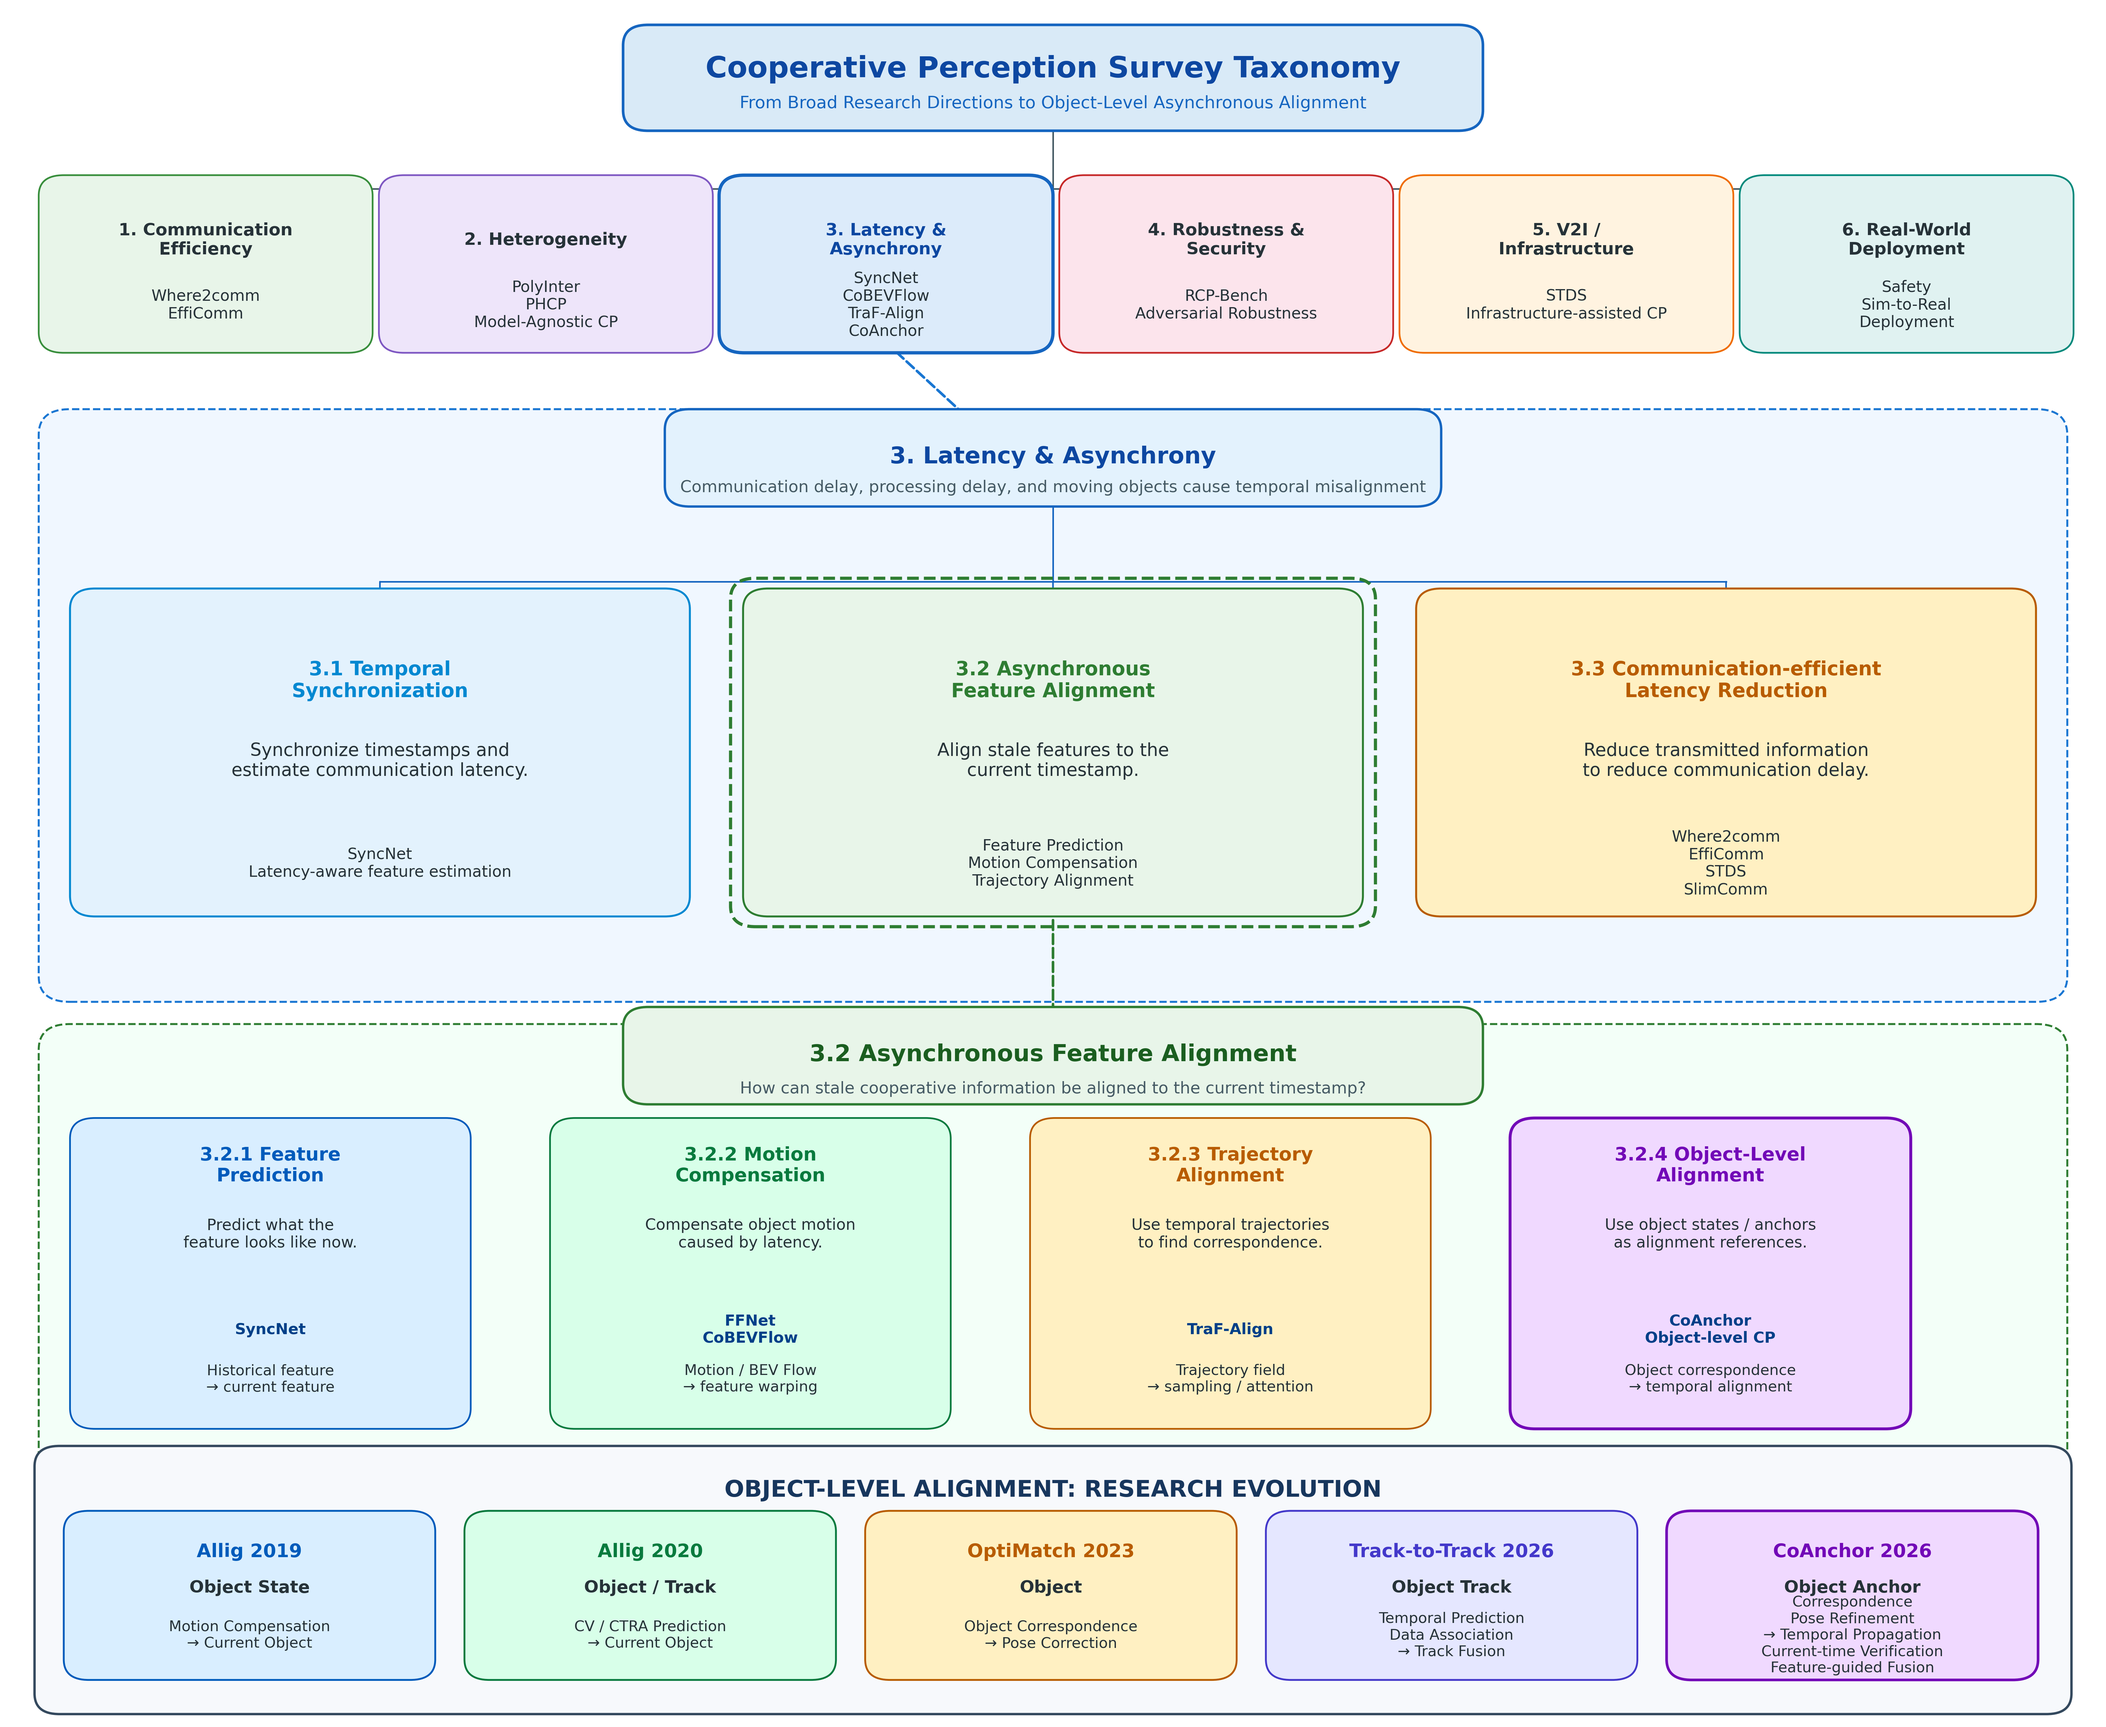
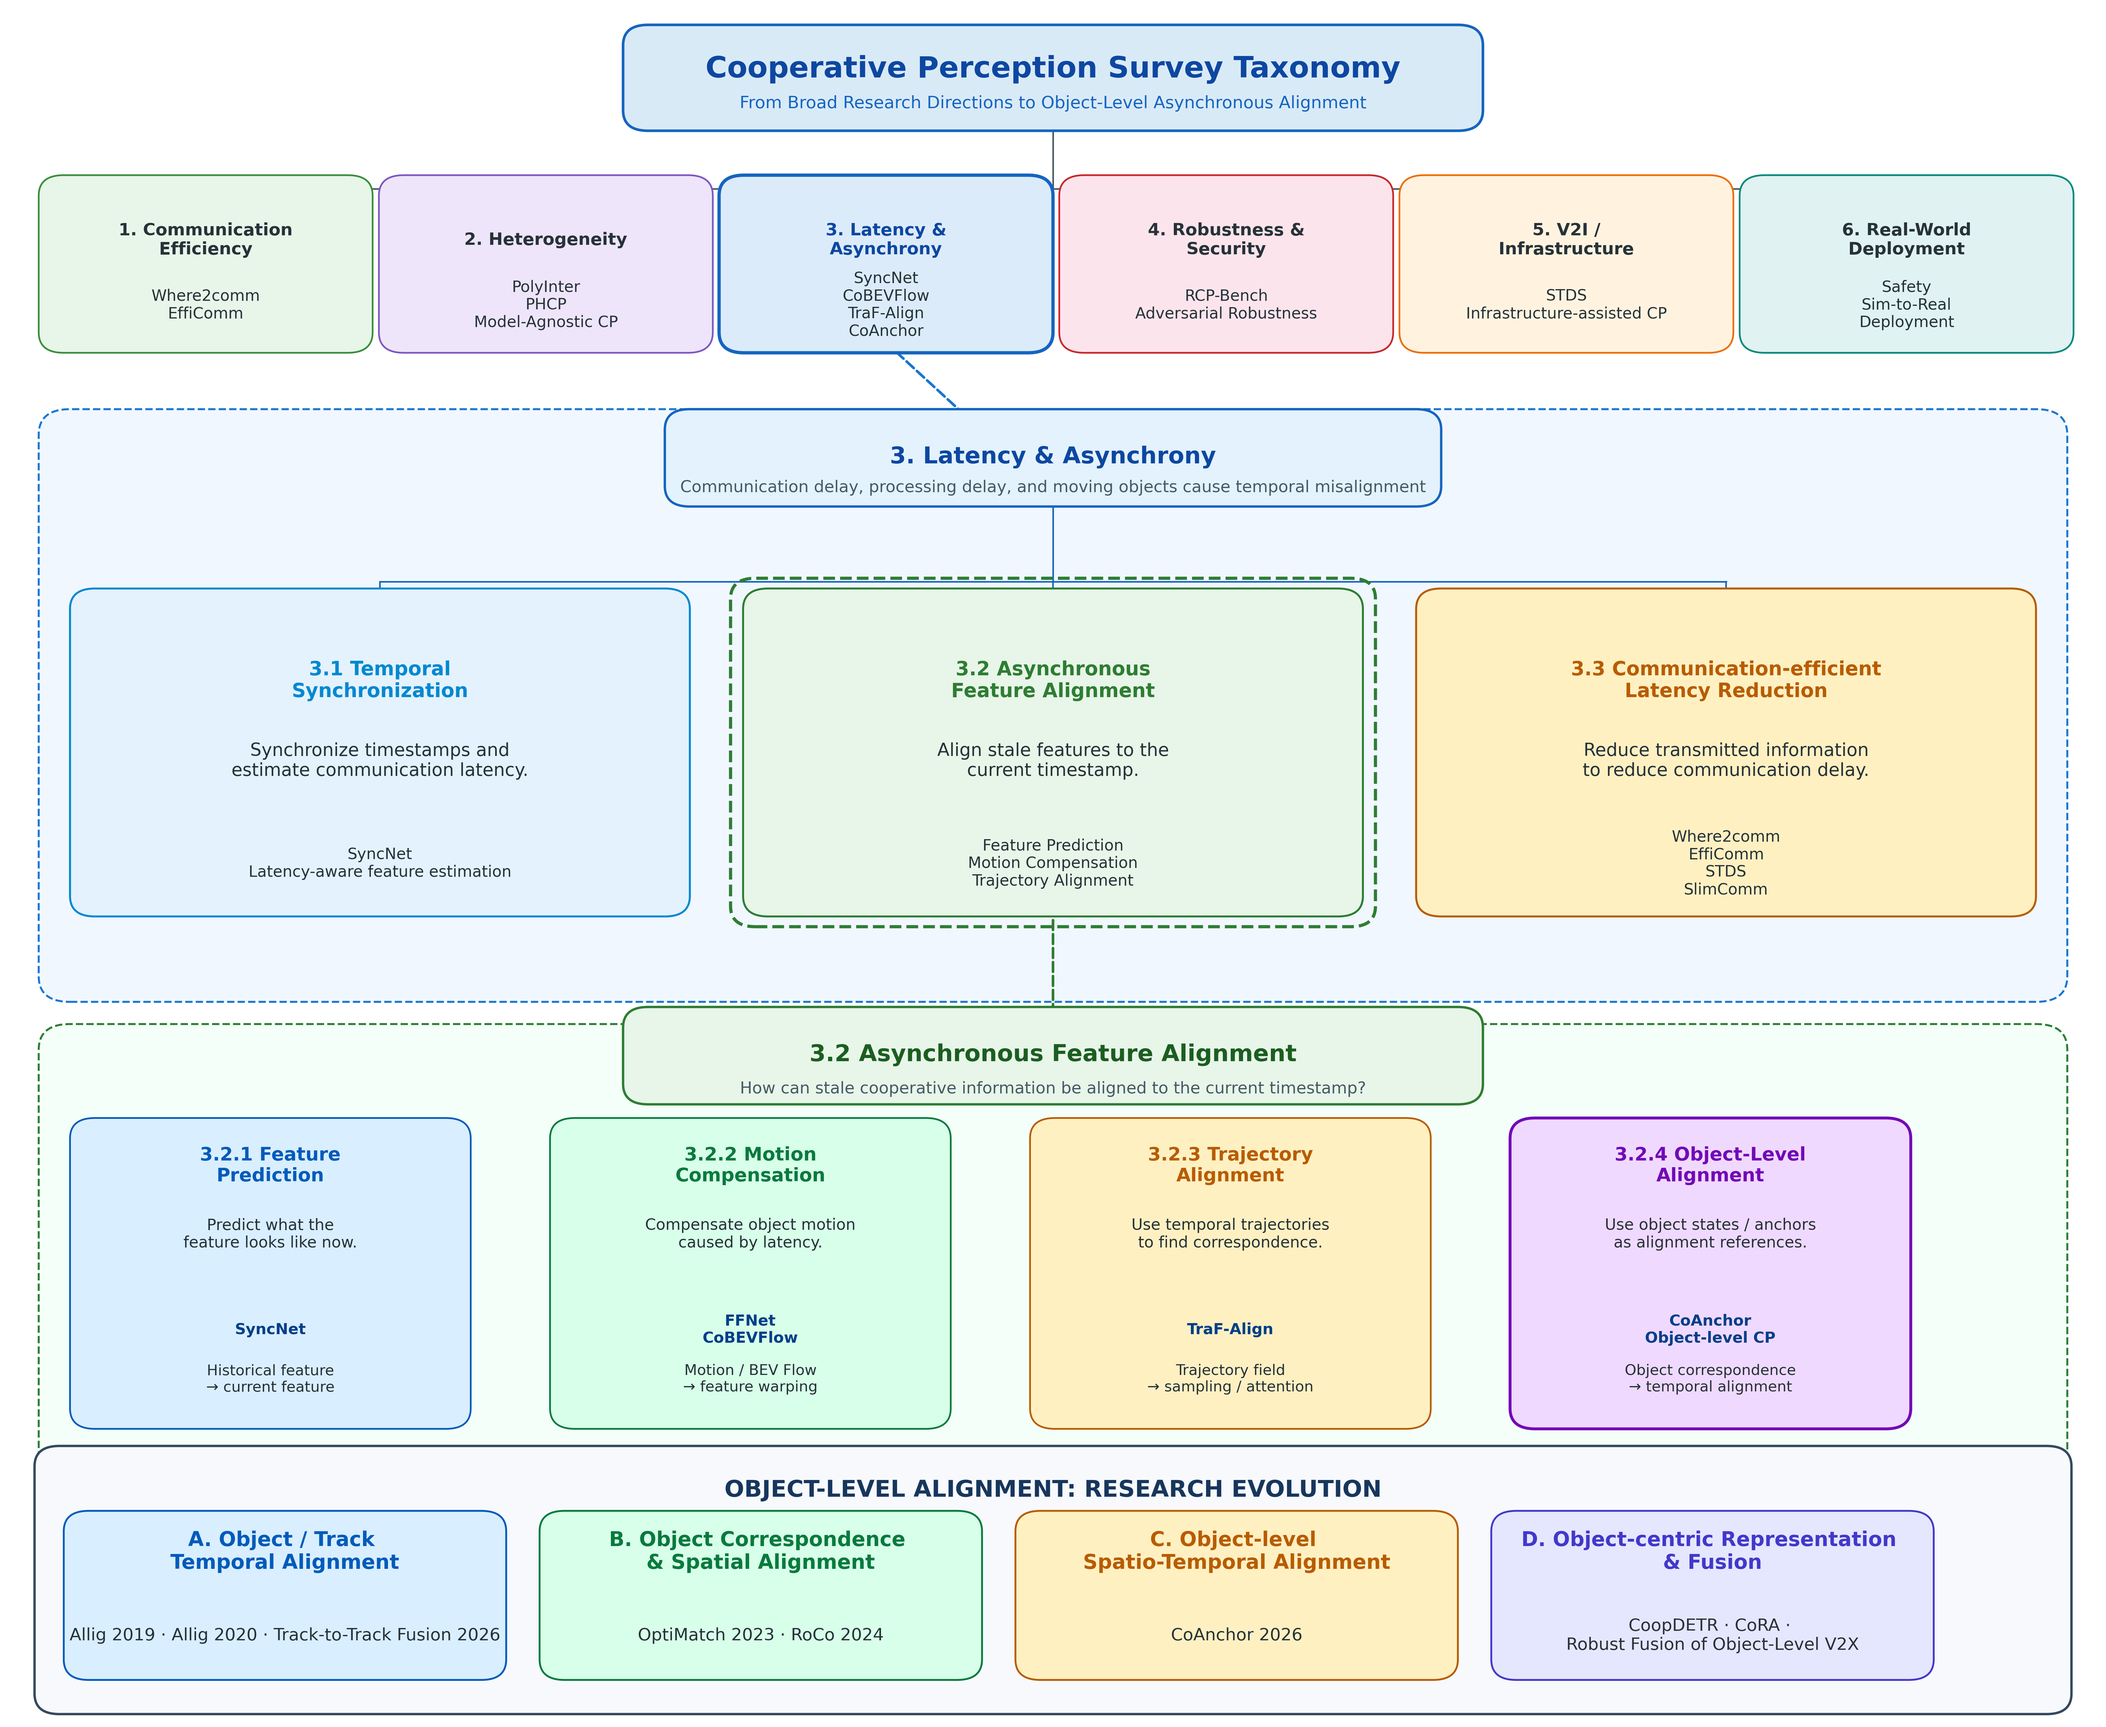
modify plt

Changed region(s): [[0.0937, 0.8718, 0.9682, 0.9963]]

diff --git a/draw.py b/draw.py
@@ -595,20 +595,47 @@ text(0.50, 0.133, "OBJECT-LEVEL ALIGNMENT: RESEARCH EVOLUTION", fontsize=15,
      weight="bold", color="#17365D")
 
 stages = [
-    {"head":"Allig 2019", "unit":"Object State", "method":"Motion Compensation", "out":"Current Object", "fc":"#D9EEFF", "ec":"#005BBB"},
-    {"head":"Allig 2020", "unit":"Object / Track", "method":"CV / CTRA Prediction", "out":"Current Object", "fc":"#D8FFE9", "ec":"#087A3E"},
-    {"head":"OptiMatch 2023", "unit":"Object", "method":"Object Correspondence", "out":"Pose Correction", "fc":"#FFF0C2", "ec":"#B85C00"},
-    {"head":"Track-to-Track 2026", "unit":"Object Track", "method":"Temporal Prediction\nData Association", "out":"Track Fusion", "fc":"#E5E7FF", "ec":"#4338CA"},
-    {"head":"CoAnchor 2026", "unit":"Object Anchor", "method":"Correspondence\nPose Refinement", "out":"Temporal Propagation\nCurrent-time Verification\nFeature-guided Fusion", "fc":"#F0D9FF", "ec":"#7209B7"},
+    {"head":"A. Object / Track \nTemporal Alignment", 
+    #"unit":"Object State", 
+    "method":"Allig 2019 · Allig 2020 · Track-to-Track Fusion 2026", 
+    #"out":"Current Object", 
+    "fc":"#D9EEFF", "ec":"#005BBB"
+    },
+    {"head":"B. Object Correspondence \n& Spatial Alignment", 
+    #"unit":"Object / Track", 
+    "method":"OptiMatch 2023 · RoCo 2024", 
+    #"out":"Current Object", 
+    "fc":"#D8FFE9", "ec":"#087A3E"
+    },
+    {"head":"C. Object-level \nSpatio-Temporal Alignment", 
+     #"unit":"Object", 
+     "method":"CoAnchor 2026", 
+     #"out":"Pose Correction", 
+     "fc":"#FFF0C2", "ec":"#B85C00"
+    },
+    {"head":"D. Object-centric Representation \n& Fusion", 
+     #"unit":"Object Track", 
+     "method":"CoopDETR · CoRA · \nRobust Fusion of Object-Level V2X", 
+     #"out":"Track Fusion", 
+     "fc":"#E5E7FF", "ec":"#4338CA"
+    },
+    #{"head":"CoAnchor 2026", 
+     #"unit":"Object Anchor", 
+    # "method":"Correspondence\nPose Refinement", 
+     #"out":"Temporal Propagation\nCurrent-time Verification\nFeature-guided Fusion", 
+    # "fc":"#F0D9FF", "ec":"#7209B7"
+    #},
 ]
-xs = [0.032, 0.224, 0.416, 0.608, 0.800]
-w = 0.166
+#xs = [0.032, 0.224, 0.416, 0.608, 0.800]
+xs = [0.032, 0.260, 0.488, 0.716]
+w = 0.20
 for i, st in enumerate(stages):
     x = xs[i]
     rounded_box(x, 0.028, w, 0.087, facecolor=st["fc"], edgecolor=st["ec"], linewidth=2.0 if i == 4 else 1.4)
-    text(x+w/2, 0.097, st["head"], fontsize=12.0, weight="bold", color=st["ec"])
-    text(x+w/2, 0.076, st["unit"], fontsize=11.0, weight="bold", color="#263238")
-    text(x+w/2, 0.048, st["method"] + "\n→ " + st["out"], fontsize=9.5, color="#263238")
+    text(x+w/2, 0.097, st["head"], fontsize=13.0, weight="bold", color=st["ec"])
+    #text(x+w/2, 0.076, st["unit"], fontsize=11.0, weight="bold", color="#263238")
+    text(x+w/2, 0.048, st["method"] #+ "\n→ " + st["out"]
+         , fontsize=11, color="#263238")
     if i < len(stages)-1:
         arrow(x+w+0.002, 0.071, xs[i+1]-0.004, 0.071, color="#455A64", linewidth=1.7)
 

diff --git a/survey.tex b/survey.tex
@@ -68,7 +68,11 @@ Therefore, recently research moves toward object level.
 Core concept of Object-Level Alignment is to use the object itself as a correspondence reference between different agents and different timestamps.
 For example, object state, bounding box, track, trajectory, or object-level anchor can be used as the reference.
 Compared to directly performing temporal compensation on the entire feature map, object-level methods can estimate the position, velocity, and temporal changes of individual objects, and then propagate historical object information to the current timestamp.
-Asynchronous feature alignment shifts temporal compensation from the feature level to an object-centric paradigm. By leveraging more precise object correspondences and motion cues, it can mitigate the adverse effects of temporal asynchrony on cooperative perception.
+Asynchronous feature alignment shifts temporal compensation from the feature level to an object-centric paradigm. 
+By leveraging more precise object correspondences and motion cues, it can mitigate the adverse effects of temporal asynchrony on cooperative perception.
+
+\subsection{Evolution of Object-Level Alignment}
+
 
 % 設定 BibTeX 參考文獻樣式與引用資料庫檔名 
 \bibliographystyle{IEEEtran} 
